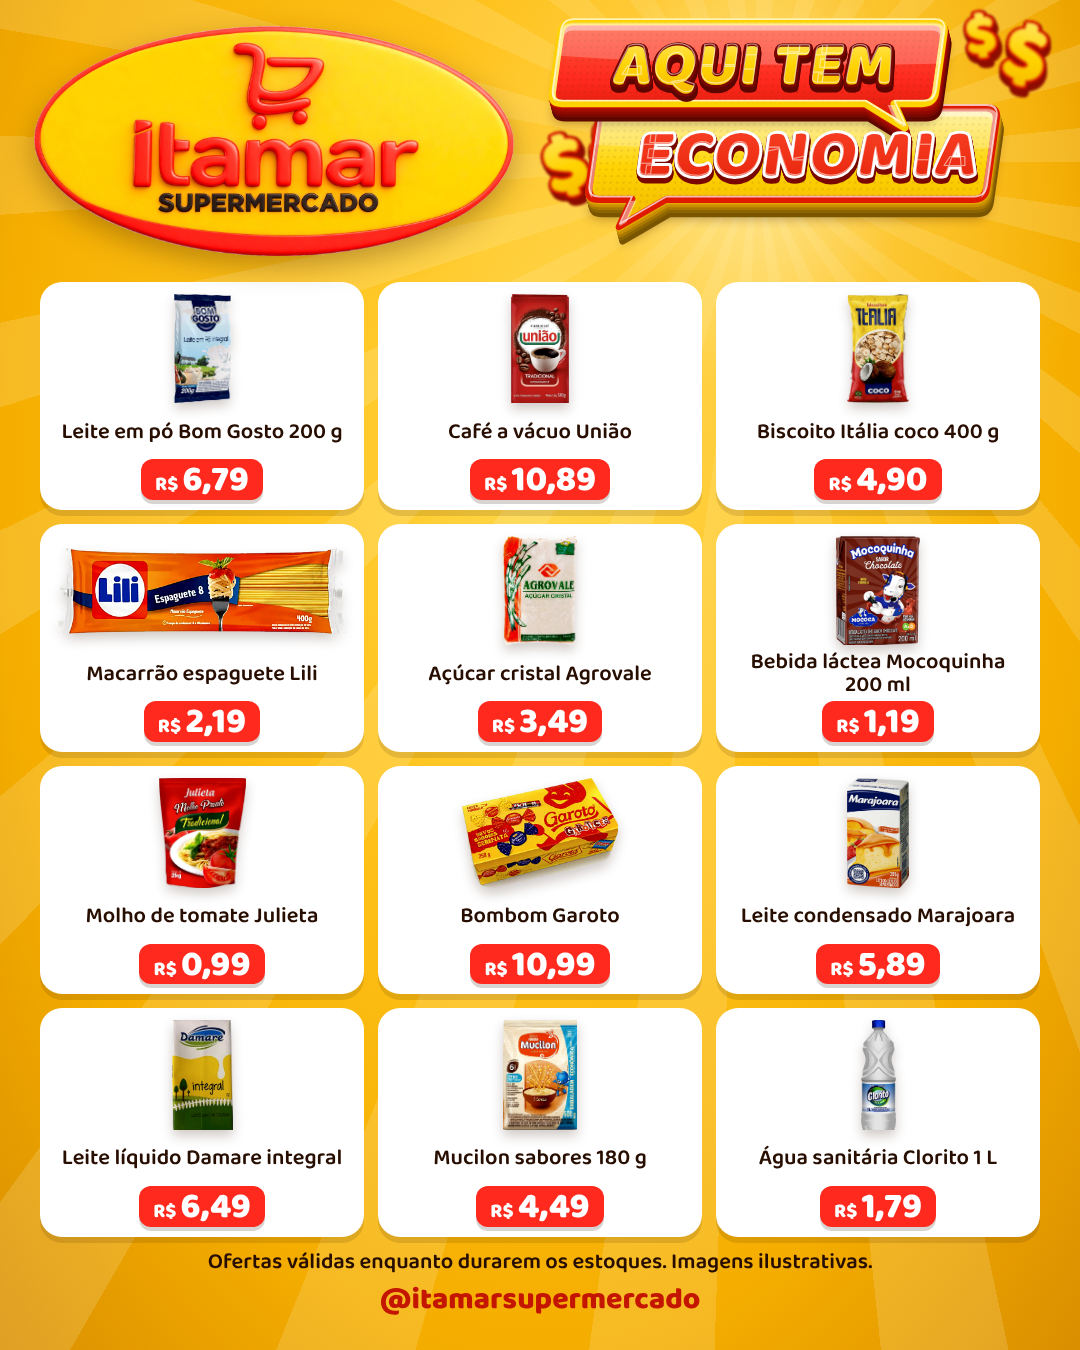
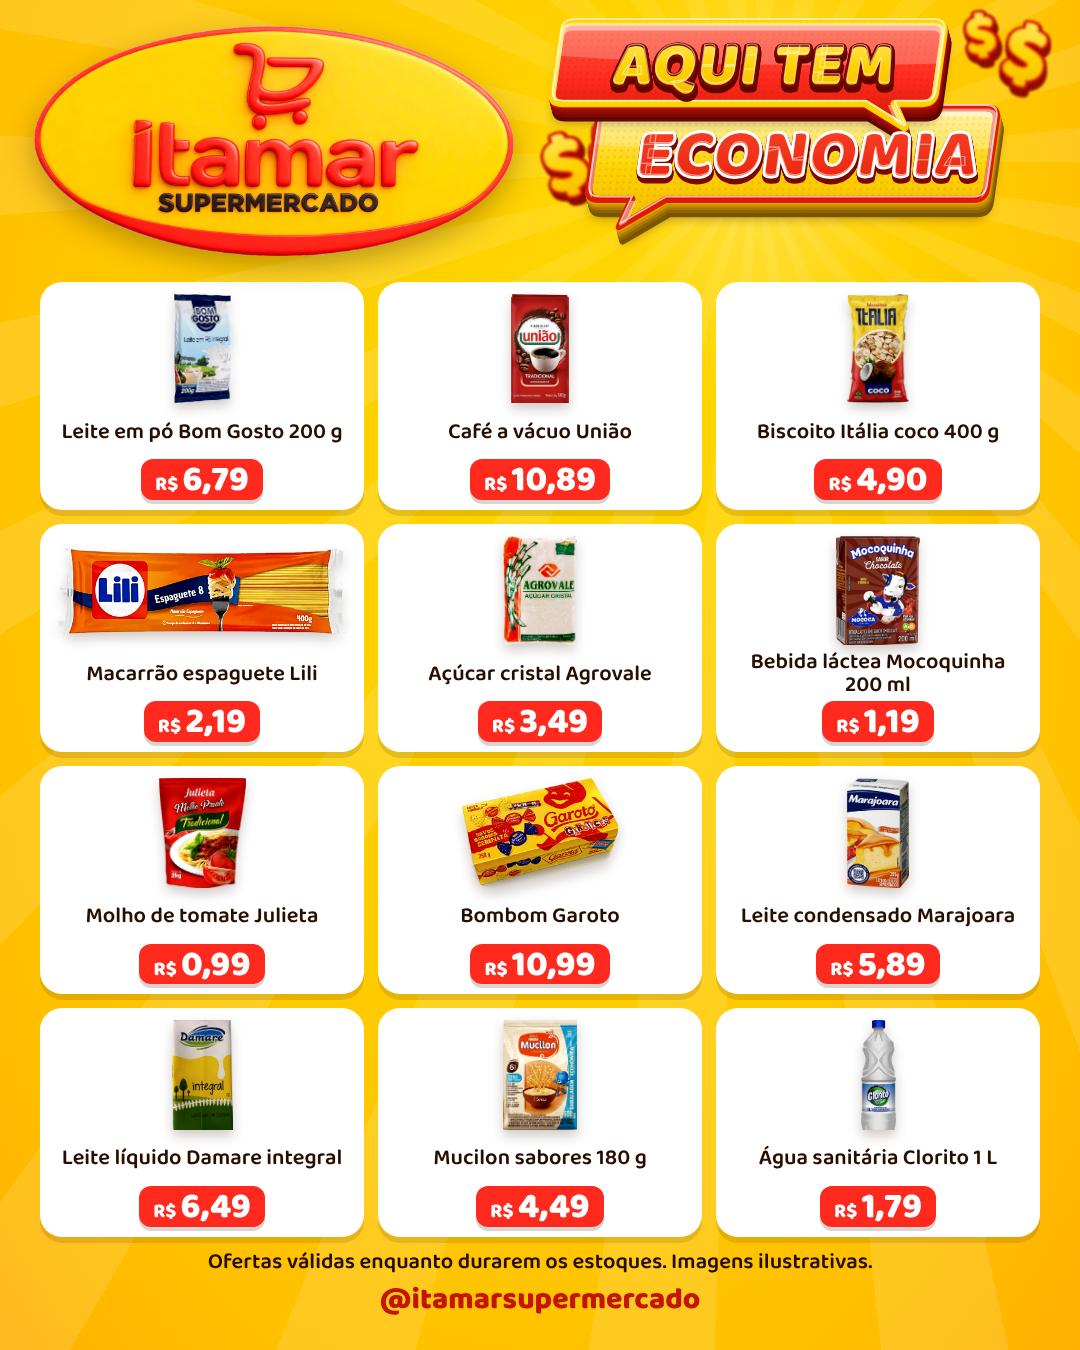
Itamar mercearia: fundo amarelo intenso
Claude-Session: https://claude.ai/code/session_01RAcsiCUqH9iCNBekL3L4L7

diff --git a/clientes/itamar-supermercado/entregas/2026-11-19-ofertas-mercearia/card-ofertas.html b/clientes/itamar-supermercado/entregas/2026-11-19-ofertas-mercearia/card-ofertas.html
@@ -3,7 +3,7 @@
 <style>
 :root{--amarelo:#FFD302;--vermelho:#FF291E;--marrom:#280E01}
 *{box-sizing:border-box;margin:0}
-body{width:1080px;height:1350px;background:#FFC21A;font-family:"Baloo 2",sans-serif;color:var(--marrom);display:flex;flex-direction:column;padding:0 40px 26px;gap:12px;background-image:radial-gradient(ellipse at 70% 12%,rgba(255,244,190,.75) 0,rgba(255,214,90,.45) 150px,transparent 330px),repeating-conic-gradient(from 0deg at 70% 12%,rgba(255,250,220,.16) 0 6deg,transparent 6deg 14deg),radial-gradient(ellipse at 50% 35%,#FFD84A 0,#FFC21A 35%,#F5AE00 70%,#D98E00 100%)}
+body{width:1080px;height:1350px;background:#FFCC00;font-family:"Baloo 2",sans-serif;color:var(--marrom);display:flex;flex-direction:column;padding:0 40px 26px;gap:12px;background-image:radial-gradient(ellipse at 70% 12%,rgba(255,240,120,.6) 0,rgba(255,220,0,.4) 150px,transparent 330px),repeating-conic-gradient(from 0deg at 70% 12%,rgba(255,255,255,.12) 0 6deg,transparent 6deg 14deg),radial-gradient(ellipse at 50% 35%,#FFD500 0,#FFCC00 45%,#FFBF00 80%,#FFB000 100%)}
 .top{position:relative;height:270px;flex:none;margin:0 -40px}
 .top>img{position:absolute;left:34px;top:26px;width:480px;filter:drop-shadow(0 10px 14px rgba(40,14,1,.3));z-index:3}
 .top svg.t{position:absolute;overflow:visible}
